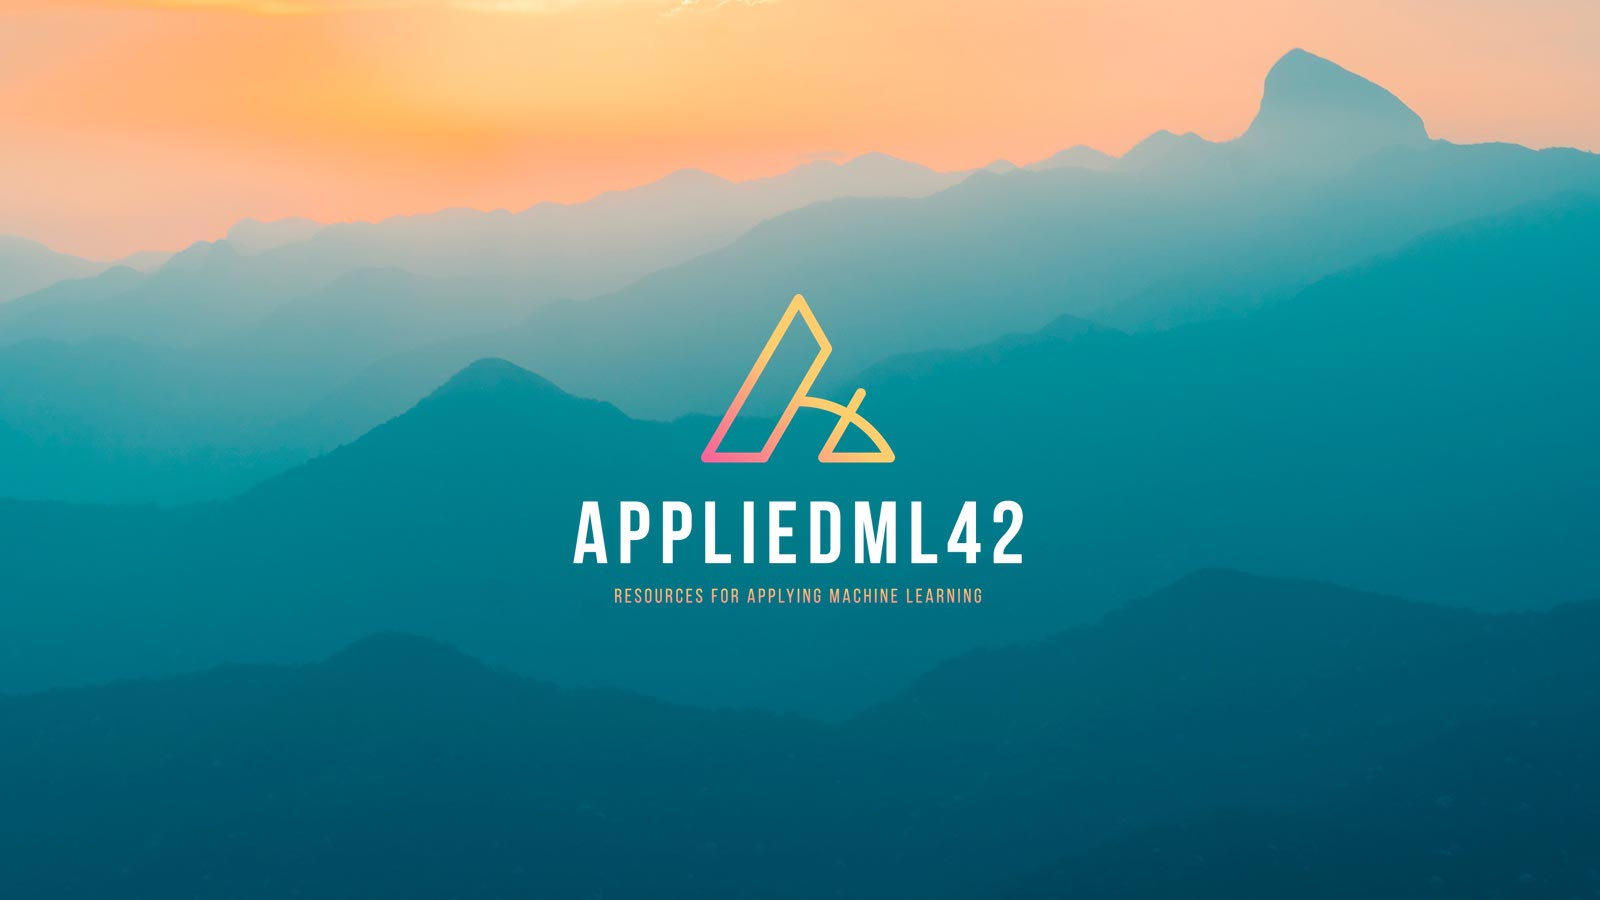
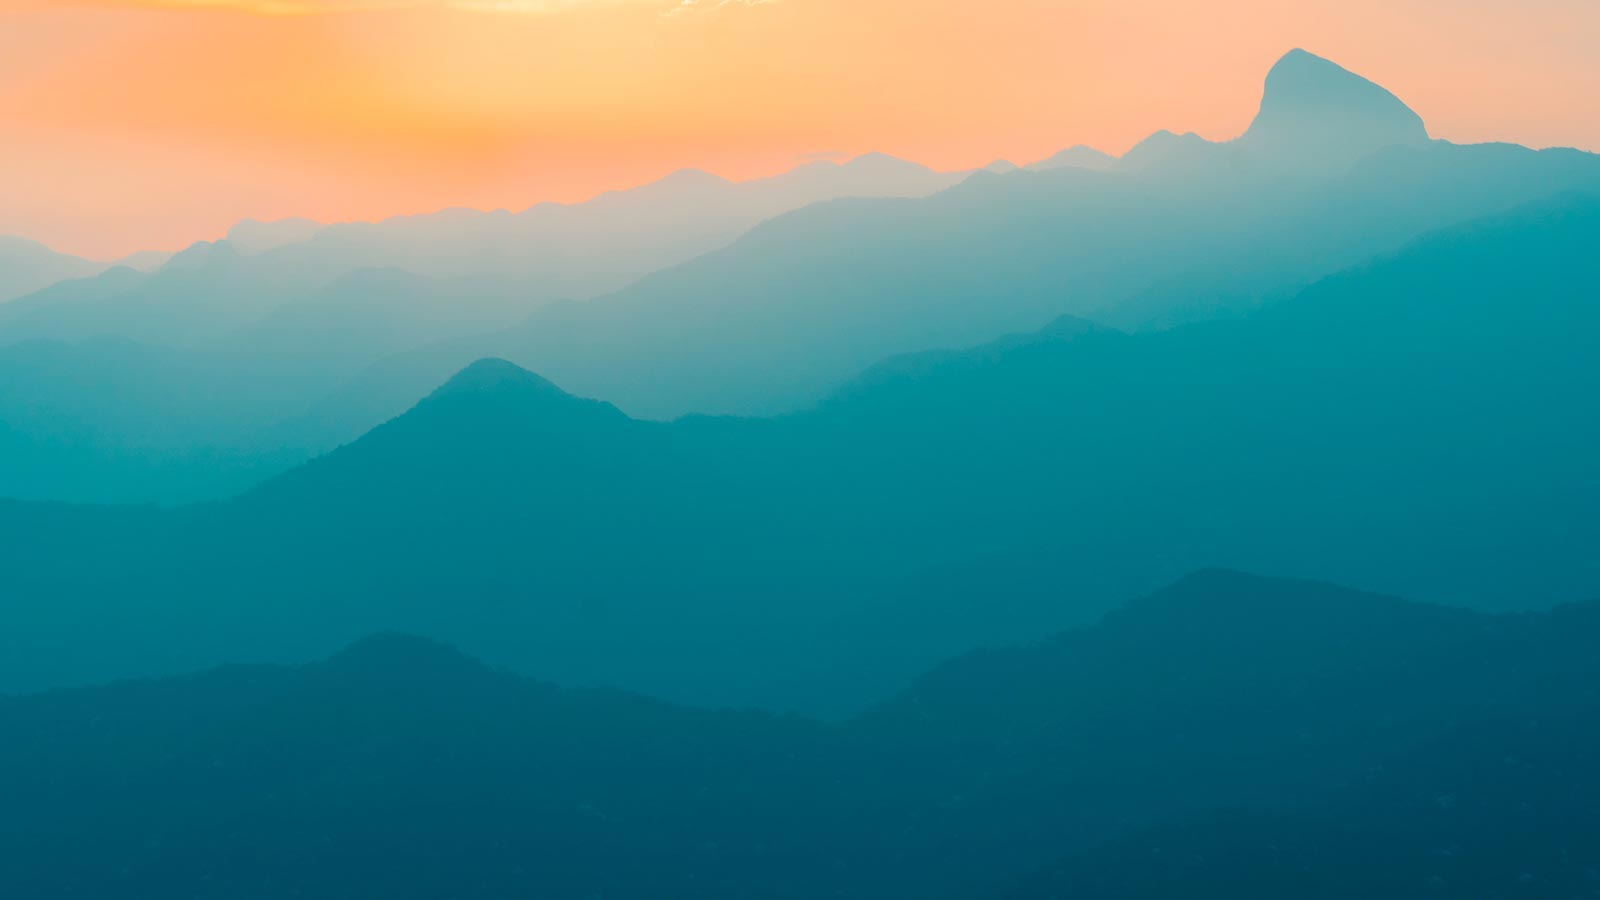
update image and title

Changed region(s): [[0.3438, 0.56, 0.6562, 0.6844], [0.4375, 0.3422, 0.5625, 0.5289]]

diff --git a/_includes/header.html b/_includes/header.html
@@ -12,12 +12,12 @@
 			<img src="{{ site.data.settings.header_settings.logo_image | relative_url }}" class="header__logo__img">
 		</a>
 		{% else %}
-		<!--<a href="{{ site.baseurl }}/" class="header__title">
+		<a href="{{ site.baseurl }}/" class="header__title">
 			{{ site.data.settings.basic_settings.site_title }}
-		</a>-->
+		</a>
 		{% endif %}
 
-		<!--<p class="header__tagline">{{ site.data.settings.basic_settings.site_tagline }}</p>-->
+		<p class="header__tagline">{{ site.data.settings.basic_settings.site_tagline }}</p>
 
 		<div class="menu">
 			<div class="menu__toggle js-menu-toggle">
